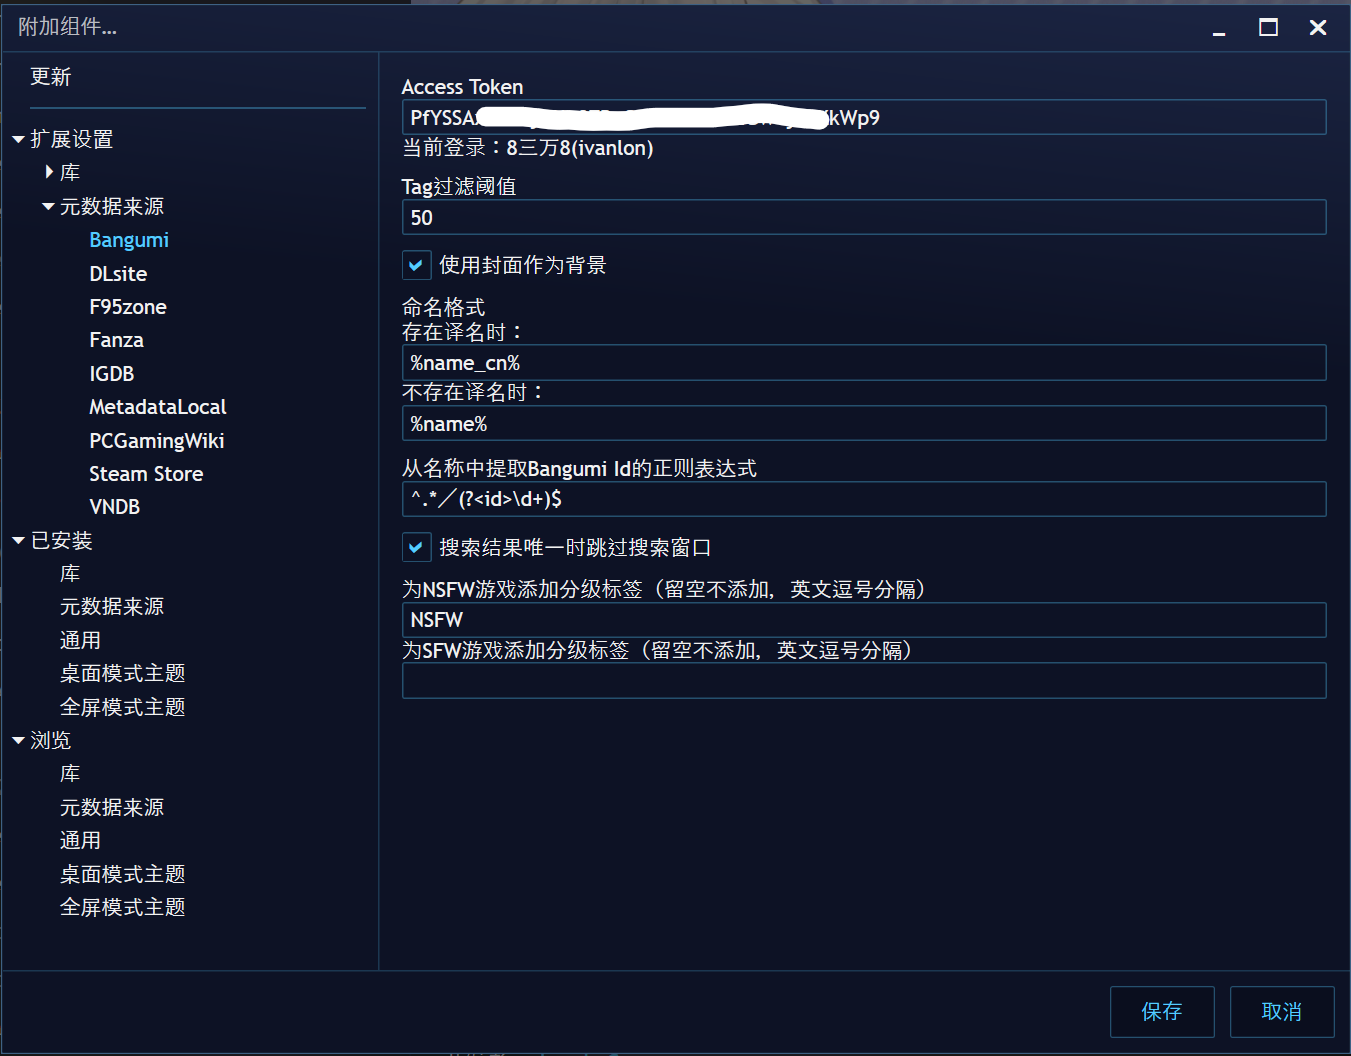
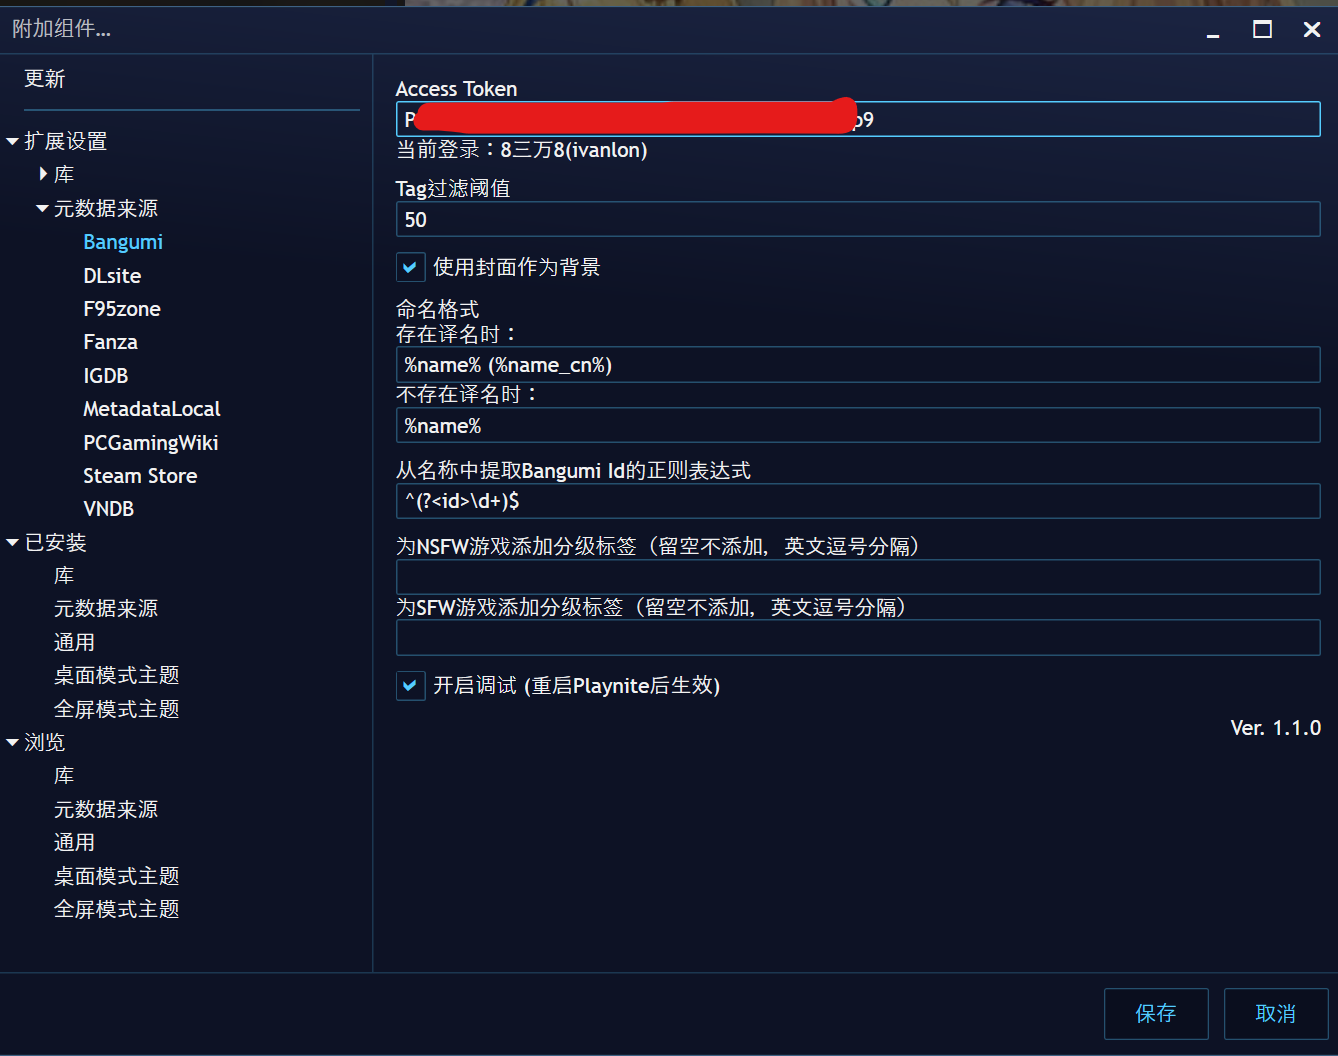
update README; add LICENSE; update ver.

diff --git a/Services/BangumiMetadataService.cs b/Services/BangumiMetadataService.cs
@@ -43,6 +43,7 @@ namespace Bangumi.Services
             }
             else
             {
+                client.Request.RawHeaders.Remove("Authorization");
                 logger.Debug("without token");
             }
 
@@ -53,7 +54,7 @@ namespace Bangumi.Services
             }
             catch (Exception e)
             {
-                logger.Warn($"invoke `GetMe` network error: {e.GetType()}: {e.Message}");
+                logger.Warn($"GetMe network error: {e.GetType()}: {e.Message}");
             }
 
             return rawContent;
@@ -83,7 +84,7 @@ namespace Bangumi.Services
                 }
                 catch (Exception e)
                 {
-                    logger.Warn($"invoke parse error: {e.GetType()}: {e.Message}; the access token may be wrong");
+                    logger.Warn($"GetMe parse error: {e.GetType()}: {e.Message}; the access token may be wrong");
                 }
             }
             
@@ -149,7 +150,7 @@ namespace Bangumi.Services
                 }
                 catch (Exception e)
                 {
-                    logger.Warn($"{e.GetType()}:\t{e.Message}");
+                    logger.Warn($"Search({keyword}:\t{e.GetType()}:\t{e.Message}");
                 }
             }
             
@@ -172,7 +173,7 @@ namespace Bangumi.Services
                 }
                 catch (Exception e)
                 {
-                    logger.Warn($"{e.GetType()}: {e.Message}");
+                    logger.Warn($"GetSubjectById({id}):\t{e.GetType()}: {e.Message}");
                 }
             }
             

diff --git a/Bangumi.cs b/Bangumi.cs
@@ -10,7 +10,7 @@ namespace Bangumi
 {
     public class Bangumi : MetadataPlugin
     {
-        public static readonly string VERSION = "1.1.0 beta";
+        public static readonly string VERSION = "1.1.0";
         private ILogger logger;
         private BangumiSettingsViewModel settings { get; set; }
         

diff --git a/README.md b/README.md
@@ -39,7 +39,7 @@ Playnite的Bangumi元数据插件
 ## 扩展设置
 
 ![](Screenshots/settings.png)
- + Access Token
+ + Access Token (可选)
  + Tag过滤阈值  
     > Bangumi中“大家把 xx 标注为”字段会被视为标签(`Tags`)，用户投票数低于阈值的tag会被忽略
  + 使用封面作为背景  
@@ -53,6 +53,10 @@ Playnite的Bangumi元数据插件
    > 插件会首先尝试将游戏名称作为Bangumi Id获取游戏信息  
    > 然后根据此项设置尝试匹配Bangumi Id（需要使用id捕获组来标记id）  
    > 最后搜索游戏名
- + 搜索结果唯一时跳过搜索窗口  
  + 为NSFW/SFW游戏添加分级标签  
-
+ + 开启调试  
+   > 开启后会将log写入`extensions.log`文件  
+   > 该文件的位置在`%AppData%\Playnite`(安装版)或Playnite的安装文件夹(便携版)
+   > 反馈bug时请提交该文件
+ 
+## 
